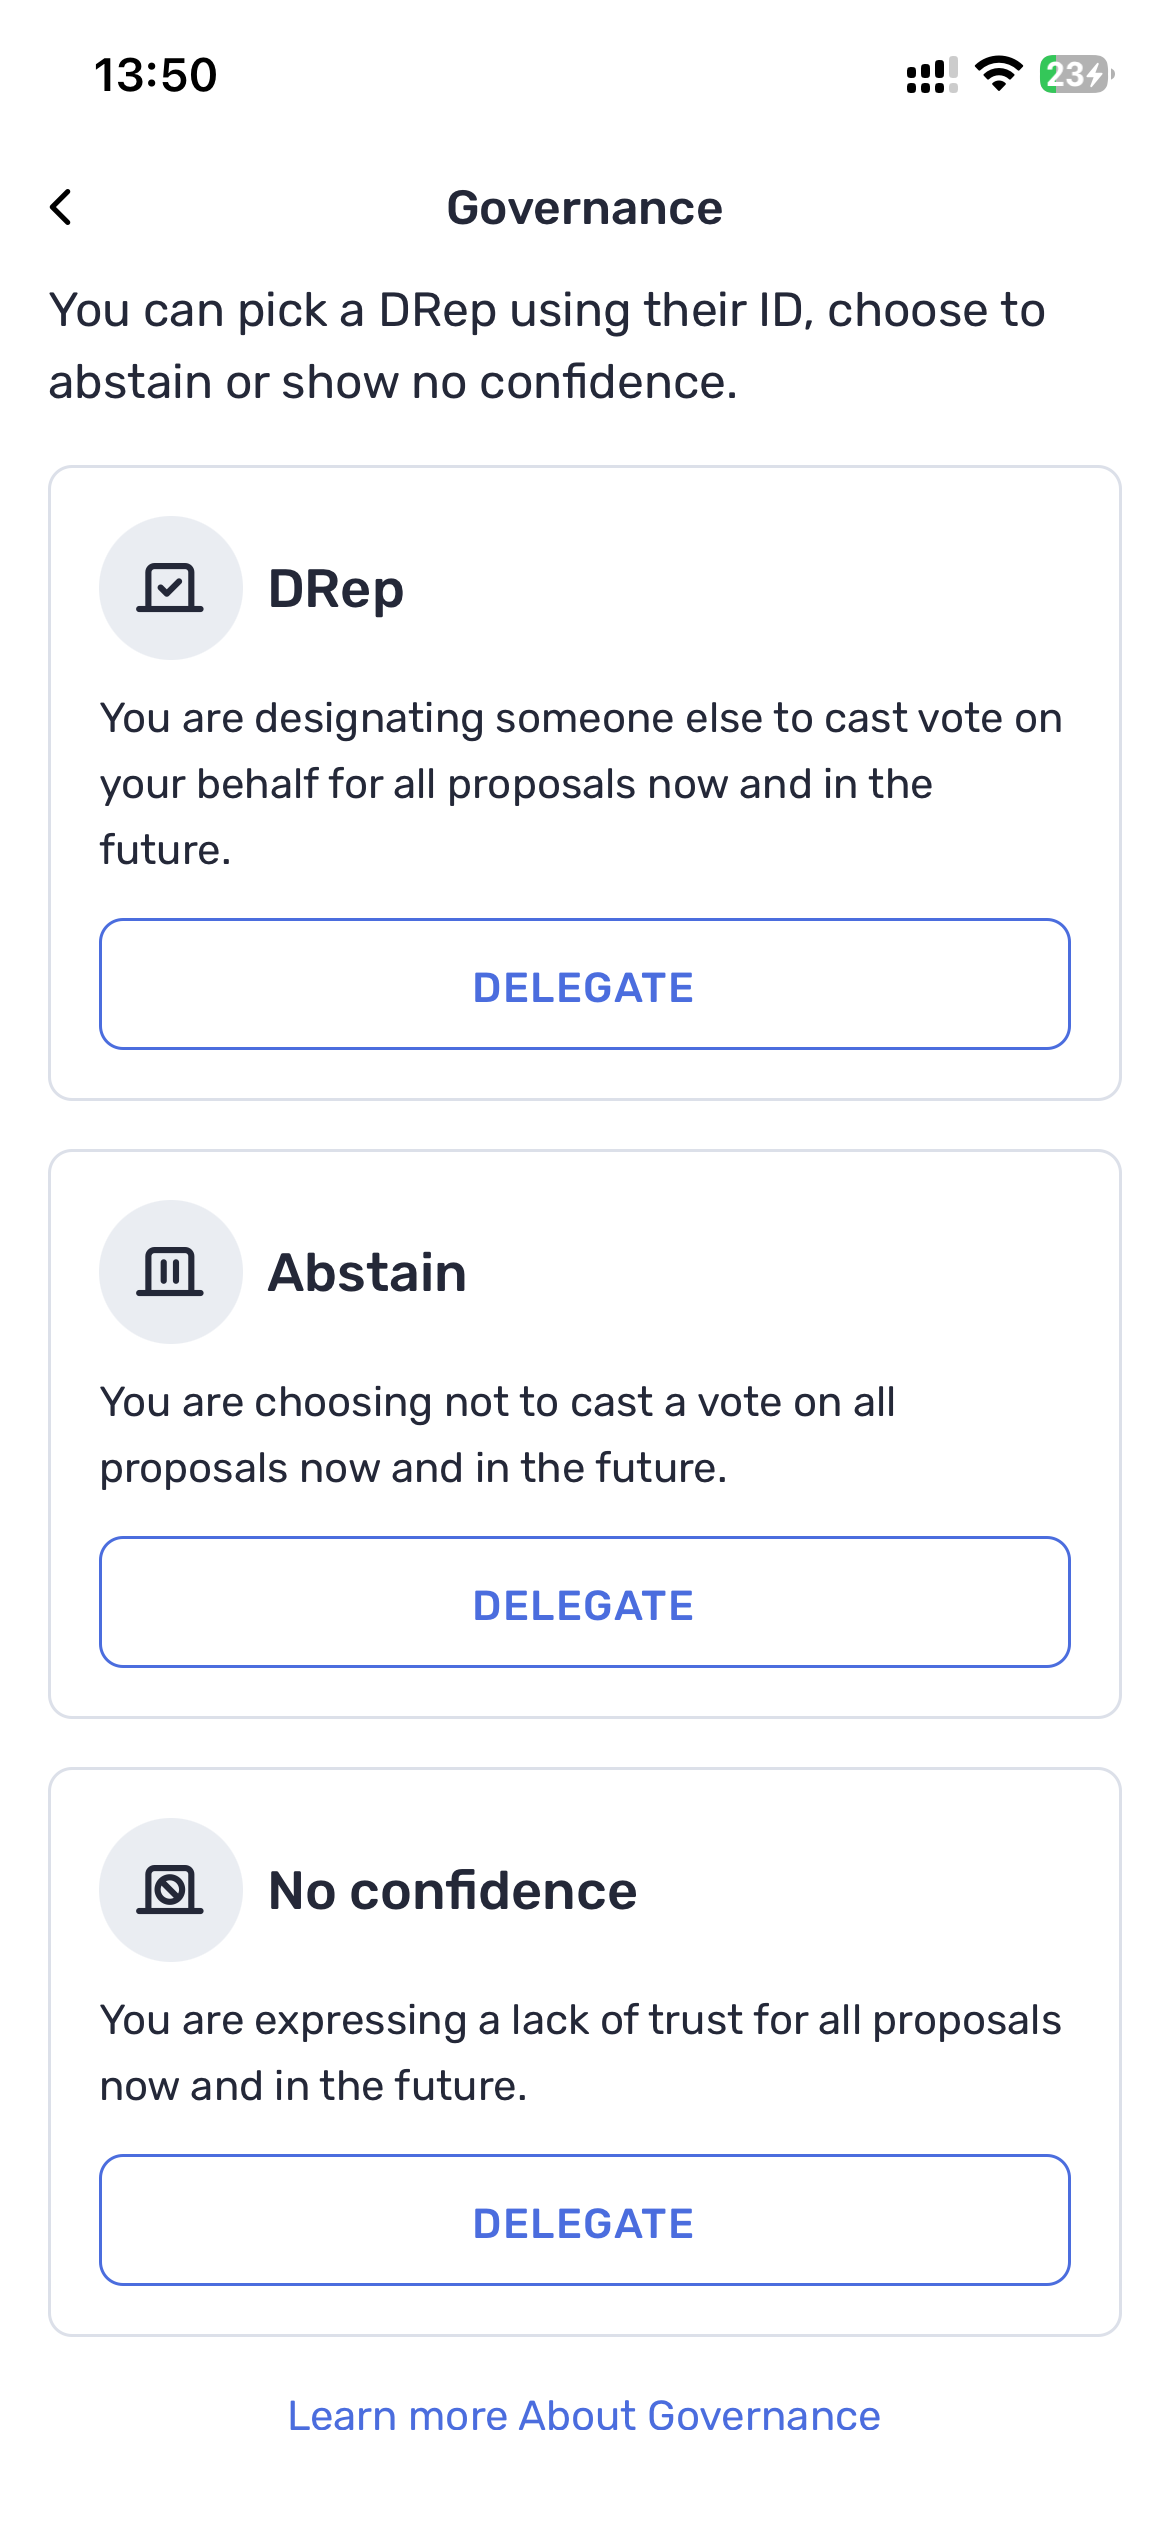
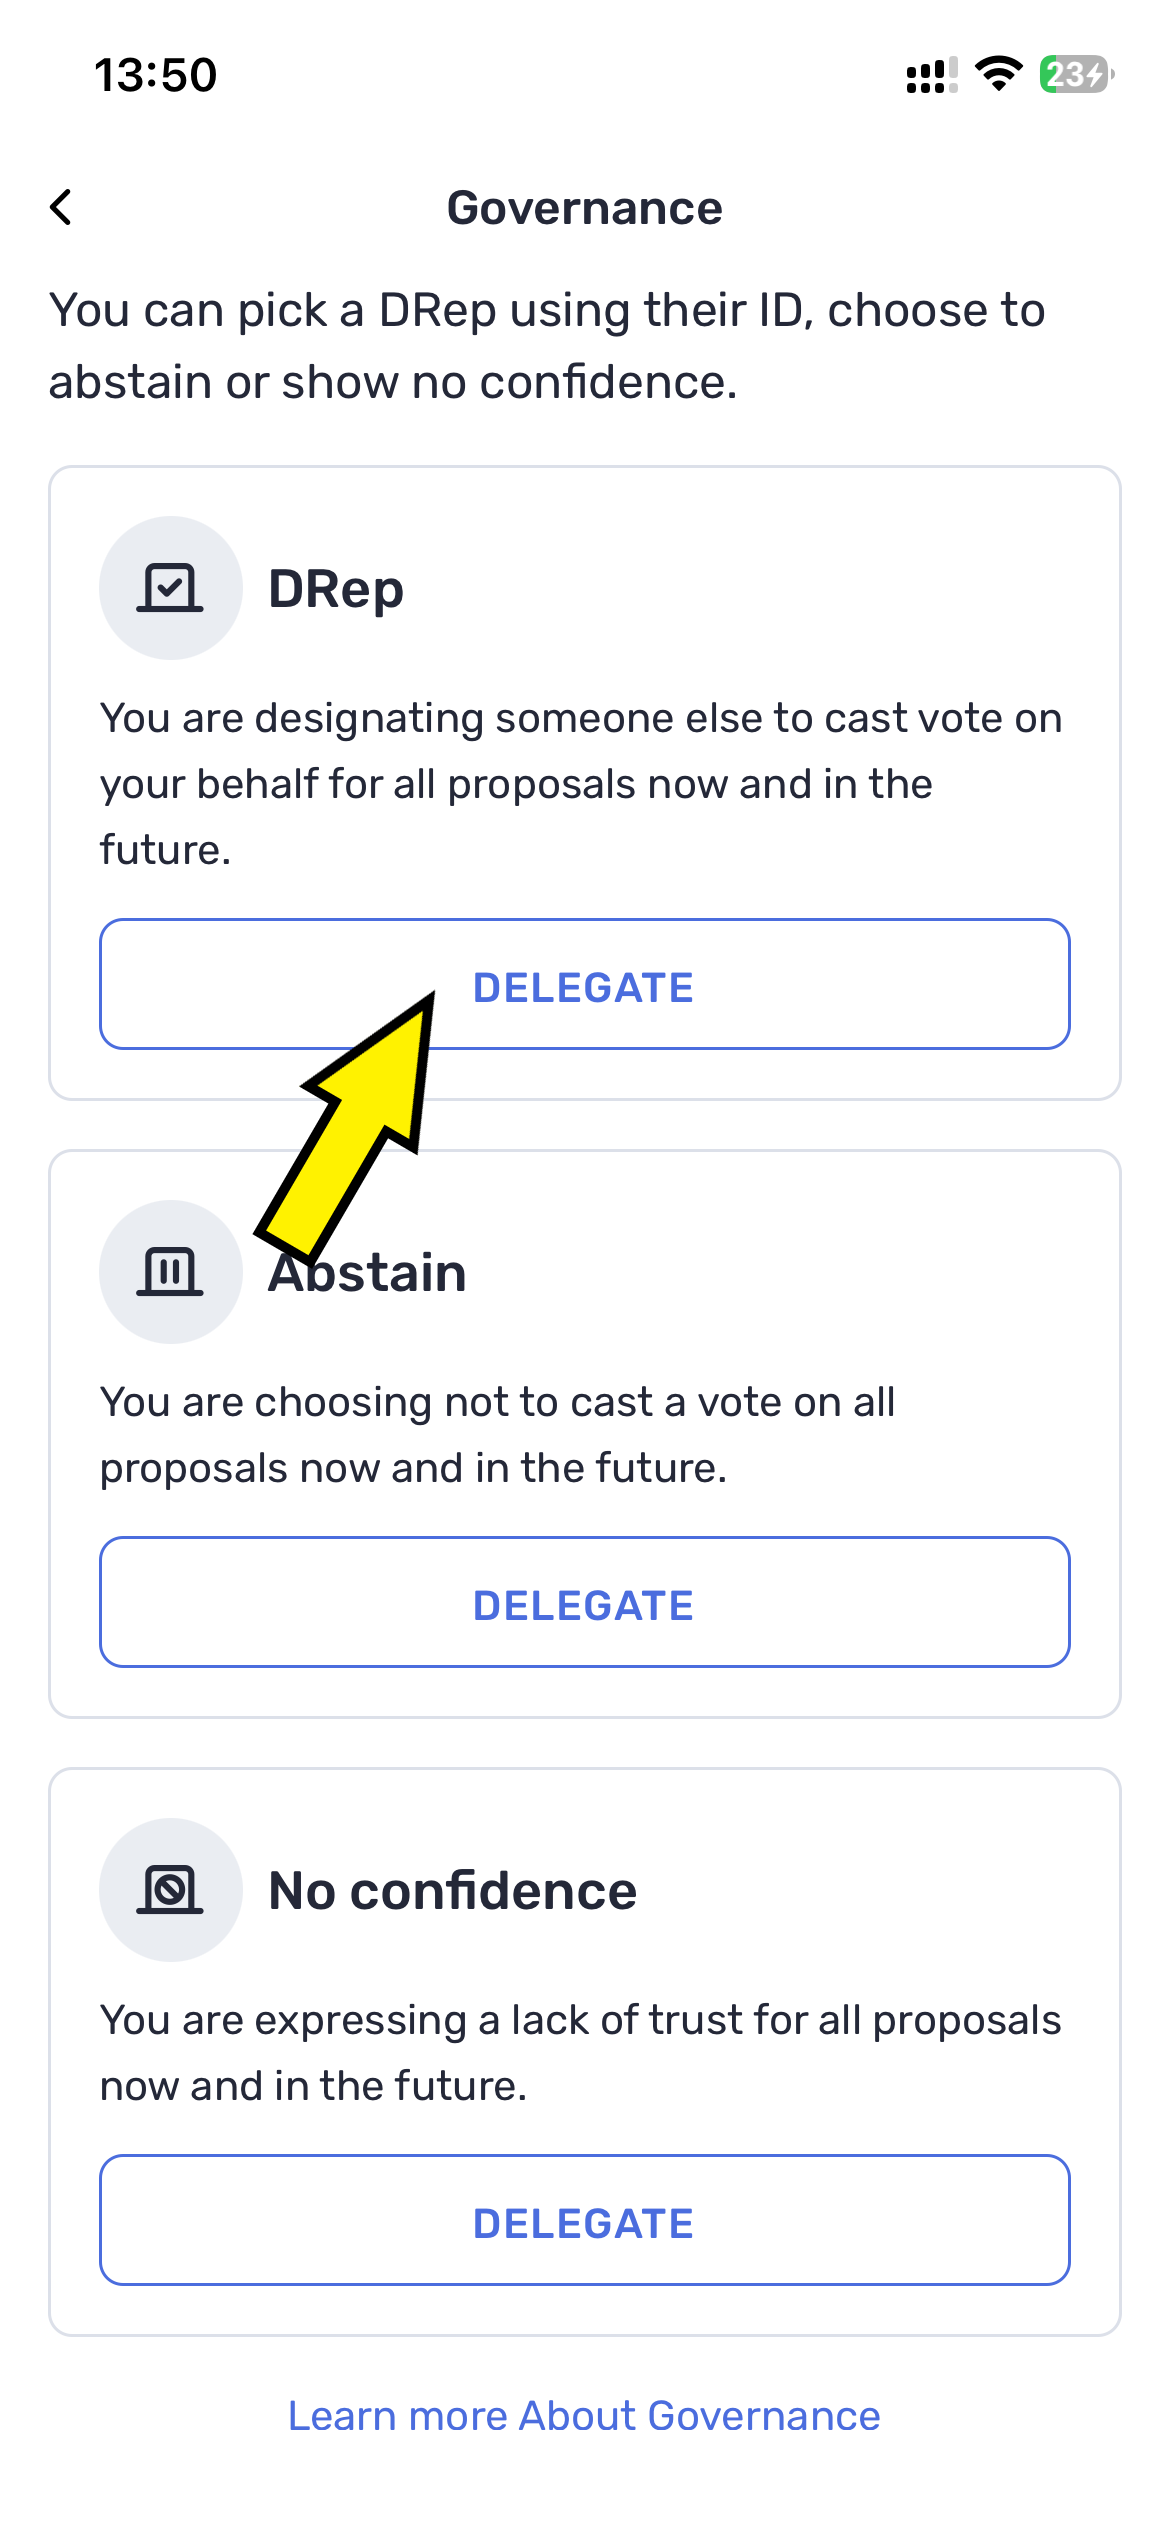
yes

Changed region(s): [[0.2154, 0.3744, 0.3692, 0.4992]]

diff --git a/_posts/2026-01-02-how-to-delegate-voting-power to a-DRep.md b/_posts/2026-01-02-how-to-delegate-voting-power to a-DRep.md
@@ -12,3 +12,12 @@ To delegate for a DREP:<br>
 <p><strong>Step 2: Go to {Governance centre}</strong><br>
 <img src="https://raw.githubusercontent.com/buddapool/buddapool.github.io/refs/heads/main/assets/images/drep2.PNG" width="600">
 </p>
+<p><strong>Step 3: You can select either Delegate to a DREP or choose Abstain or No. In this guidance, I selected DREP </strong><br>
+<img src="https://raw.githubusercontent.com/buddapool/buddapool.github.io/refs/heads/main/assets/images/drep3.PNG" width="600">
+</p>
+<p><strong>Step 4: Input the DREP's ID who I want to vote for </strong><br>
+<img src="https://raw.githubusercontent.com/buddapool/buddapool.github.io/refs/heads/main/assets/images/drep4.PNG" width="600">
+</p>
+<p><strong>Step 5 (Final): Confirm </strong><br>
+<img src="https://raw.githubusercontent.com/buddapool/buddapool.github.io/refs/heads/main/assets/images/drep5.PNG" width="600">
+</p>
